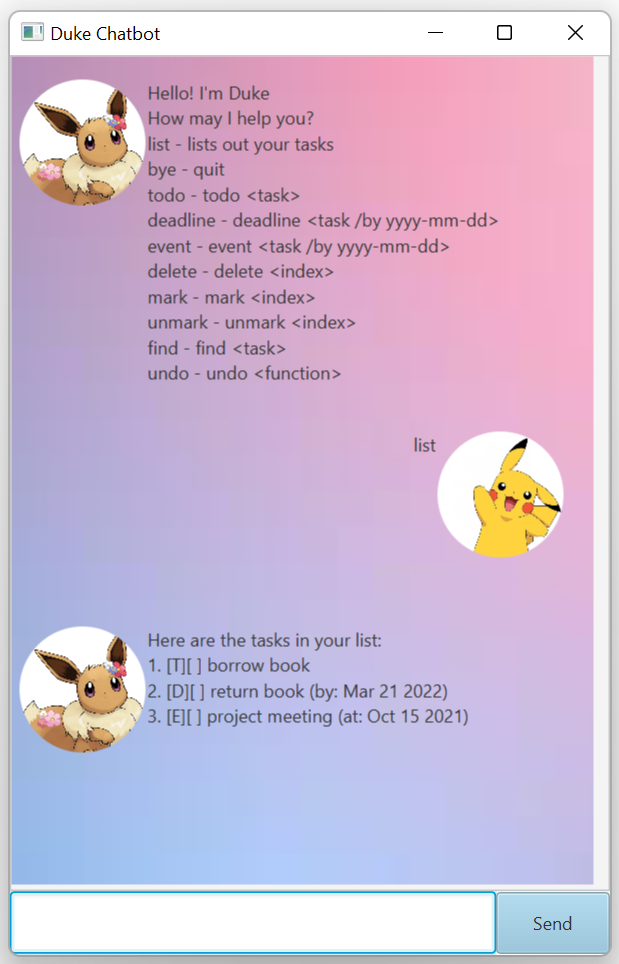
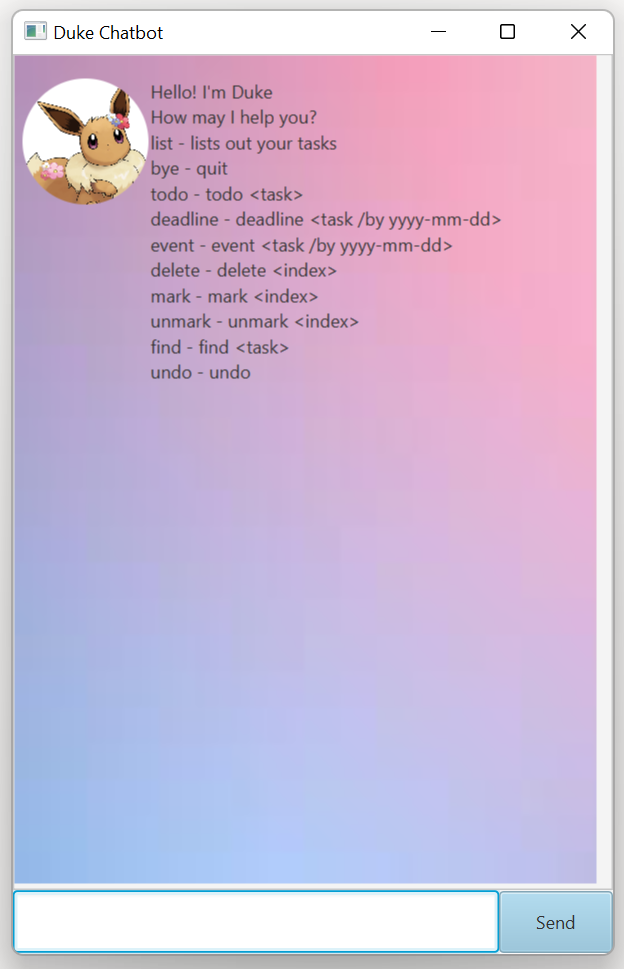
Edit Ui image

diff --git a/src/main/java/Duke/Ui.java b/src/main/java/Duke/Ui.java
@@ -26,7 +26,7 @@ public class Ui {
         return "Hello! I'm Duke\nHow may I help you?\nlist - lists out your tasks\nbye - quit\n"
                 + "todo - todo <task>\ndeadline - deadline <task /by yyyy-mm-dd>\nevent - event <task /by yyyy-mm-dd>\n"
                 + "delete - delete <index>\nmark - mark <index>\nunmark - unmark <index>\nfind - find <task>\n"
-                + "undo - undo <function>";
+                + "undo - undo";
     }
 
     /**
